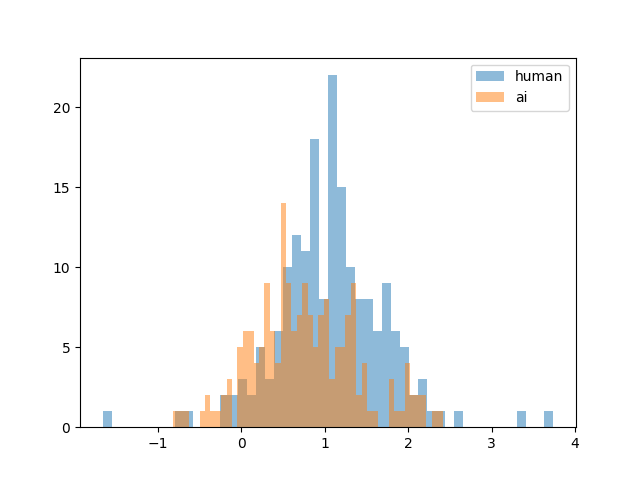
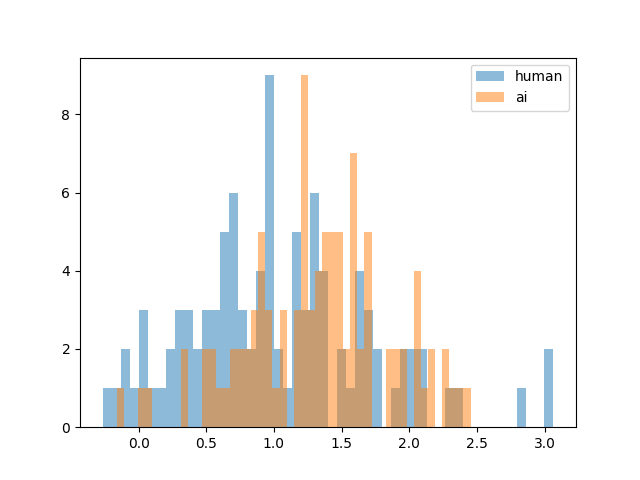
graphed detectgpt on wiki dataset with gpt-neo-1.3b

diff --git a/main.py b/main.py
@@ -31,16 +31,16 @@ data_ai = ["In a landmark decision, the government announces a nationwide initia
            "Renowned tech company releases an innovative AI-powered personal assistant, set to revolutionize daily tasks. The advanced system adapts to user preferences, streamlining schedules, and providing real-time information. Early reviews praise its intuitive interface and efficiency, marking a significant advancement in artificial intelligence applications for personal use.",
            "Amid rising concerns about cybersecurity, a major tech conglomerate unveils a state-of-the-art encryption system. The new technology promises enhanced protection for user data, making it significantly more challenging for unauthorized access. Industry experts applaud the development, anticipating it will set a new standard for digital security in an increasingly interconnected world."]
 
-#from datasets import load_dataset
-#dataset = load_dataset("aadityaubhat/GPT-wiki-intro", split="train[:100]")
-#data_human = dataset["wiki_intro"]
-#data_ai = dataset["generated_intro"]
+from datasets import load_dataset
+dataset = load_dataset("aadityaubhat/GPT-wiki-intro", split="train[:100]")
+data_human = dataset["wiki_intro"]
+data_ai = dataset["generated_intro"]
 
 
 
-dataset = load_from_disk("/scratch/users/ryanzhao/EvadingDetectGPT/data")
-data_human = dataset["document"]
-data_ai = dataset["generated"]
+#dataset = load_from_disk("/scratch/users/ryanzhao/EvadingDetectGPT/data")
+#data_human = dataset["document"]
+#data_ai = dataset["generated"]
 
 res_human = get_score(data_human)
 # res_human = get_score(dataset["document"][:10])
